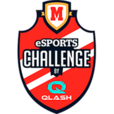
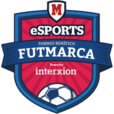
Modifica el diseño para el torneo FUTMARCA

diff --git a/index.html b/index.html
@@ -5,28 +5,28 @@
         <meta charset="utf-8" />
         <meta name="viewport" content="width=device-width, initial-scale=1, shrink-to-fit=no" />
 
-        <title>Torneo On-Line Fornite, eSPORTS CHALLENGE by QLASH</title>
+        <title>Torneo Benéfico Futmarca, eSPORTS CHALLENGE by QLASH</title>
 
-        <link rel="apple-touch-icon" sizes="57x57" href="https://uecluster.blob.core.windows.net/images/esports/images/apple-icon-57x57.png" />
-        <link rel="apple-touch-icon" sizes="60x60" href="https://uecluster.blob.core.windows.net/images/esports/images/apple-icon-60x60.png" />
-        <link rel="apple-touch-icon" sizes="72x72" href="https://uecluster.blob.core.windows.net/images/esports/images/apple-icon-72x72.png" />
-        <link rel="apple-touch-icon" sizes="76x76" href="https://uecluster.blob.core.windows.net/images/esports/images/apple-icon-76x76.png" />
-        <link rel="apple-touch-icon" sizes="114x114" href="https://uecluster.blob.core.windows.net/images/esports/images/apple-icon-114x114.png" />
-        <link rel="apple-touch-icon" sizes="120x120" href="https://uecluster.blob.core.windows.net/images/esports/images/apple-icon-120x120.png" />
-        <link rel="apple-touch-icon" sizes="144x144" href="https://uecluster.blob.core.windows.net/images/esports/images/apple-icon-144x144.png" />
-        <link rel="apple-touch-icon" sizes="152x152" href="https://uecluster.blob.core.windows.net/images/esports/images/apple-icon-152x152.png" />
-        <link rel="apple-touch-icon" sizes="180x180" href="https://uecluster.blob.core.windows.net/images/esports/images/apple-icon-180x180.png" />
-        <link rel="icon" type="image/png" sizes="192x192" href="https://uecluster.blob.core.windows.net/images/esports/images/android-icon-192x192.png" />
-        <link rel="icon" type="image/png" sizes="32x32" href="https://uecluster.blob.core.windows.net/images/esports/images/favicon-32x32.png" />
-        <link rel="icon" type="image/png" sizes="96x96" href="https://uecluster.blob.core.windows.net/images/esports/images/favicon-96x96.png" />
-        <link rel="icon" type="image/png" sizes="16x16" href="https://uecluster.blob.core.windows.net/images/esports/images/favicon-16x16.png" />
+        <link rel="apple-touch-icon" sizes="57x57" href="https://uecluster.blob.core.windows.net/images/futmarca/apple-icon-57x57.png" />
+        <link rel="apple-touch-icon" sizes="60x60" href="https://uecluster.blob.core.windows.net/images/futmarca/apple-icon-60x60.png" />
+        <link rel="apple-touch-icon" sizes="72x72" href="https://uecluster.blob.core.windows.net/images/futmarca/apple-icon-72x72.png" />
+        <link rel="apple-touch-icon" sizes="76x76" href="https://uecluster.blob.core.windows.net/images/futmarca/apple-icon-76x76.png" />
+        <link rel="apple-touch-icon" sizes="114x114" href="https://uecluster.blob.core.windows.net/images/futmarca/apple-icon-114x114.png" />
+        <link rel="apple-touch-icon" sizes="120x120" href="https://uecluster.blob.core.windows.net/images/futmarca/apple-icon-120x120.png" />
+        <link rel="apple-touch-icon" sizes="144x144" href="https://uecluster.blob.core.windows.net/images/futmarca/apple-icon-144x144.png" />
+        <link rel="apple-touch-icon" sizes="152x152" href="https://uecluster.blob.core.windows.net/images/futmarca/apple-icon-152x152.png" />
+        <link rel="apple-touch-icon" sizes="180x180" href="https://uecluster.blob.core.windows.net/images/futmarca/apple-icon-180x180.png" />
+        <link rel="icon" type="image/png" sizes="192x192" href="https://uecluster.blob.core.windows.net/images/futmarca/android-icon-192x192.png" />
+        <link rel="icon" type="image/png" sizes="32x32" href="https://uecluster.blob.core.windows.net/images/futmarca/favicon-32x32.png" />
+        <link rel="icon" type="image/png" sizes="96x96" href="https://uecluster.blob.core.windows.net/images/futmarca/favicon-96x96.png" />
+        <link rel="icon" type="image/png" sizes="16x16" href="https://uecluster.blob.core.windows.net/images/futmarca/favicon-16x16.png" />
         <link rel="manifest" href="manifest.json" />
         <meta name="msapplication-TileColor" content="#ffffff" />
-        <meta name="msapplication-TileImage" content="https://uecluster.blob.core.windows.net/images/esports/images/ms-icon-144x144.png" />
+        <meta name="msapplication-TileImage" content="https://uecluster.blob.core.windows.net/images/futmarca/ms-icon-144x144.png" />
         <meta name="theme-color" content="#ffffff" />
 
         <!-- Roboto CSS -->
-        <link href="https://fonts.googleapis.com/css2?family=Roboto:wght@300;700&display=swap" rel="stylesheet" />
+        <link href="https://fonts.googleapis.com/css2?family=Roboto:wght@300;700;900&display=swap" rel="stylesheet" />
 
         <!-- Bootstrap CSS -->
         <link rel="stylesheet" href="https://stackpath.bootstrapcdn.com/bootstrap/4.4.1/css/bootstrap.min.css" integrity="sha384-Vkoo8x4CGsO3+Hhxv8T/Q5PaXtkKtu6ug5TOeNV6gBiFeWPGFN9MuhOf23Q9Ifjh" crossorigin="anonymous" />
@@ -39,18 +39,33 @@
                 font-family: 'Roboto', 'helvetica neue', Arial, sans-serif;
                 color: #fff;
                 font-size: 17px;
-                background: repeating-linear-gradient(135deg, #0e1017, #0e1017 2px, #14151f 2px, #14151f 4px);
+                background: repeating-linear-gradient(135deg, #223154, #223154 2px, #2b3e6a 2px, #2b3e6a 4px);
             }
             header {
-                /* background: url(assets/images/bg-header.jpg) no-repeat top center; */
-                background: url(https://uecluster.blob.core.windows.net/images/esports/images/bg-header.jpg) no-repeat top center;
-                background-size: auto 100%;
+                background: #03090f;
             }
             header .container {
                 position: relative;
             }
-            header a {
+            header a.claim {
                 display: none;
+                font-size: 14px;
+            }
+            header .social {
+                display: none;
+            }
+
+            .white-line, .red-line {
+                height: 10px;
+            }
+            .red-line.big {
+                height: 60px;
+            }
+            .white-line{
+                background-color: #fff;
+            }
+            .red-line {
+                background-color: #c21c4a;
             }
 
             main {
@@ -86,8 +101,6 @@
             #thanks p,
             #ie11 p {
                 padding: 20px 0;
-                border-top: #a22825 4px solid;
-                border-bottom: #a22825 4px solid;
             }
             #form .alert {
                 display: none;
@@ -104,9 +117,14 @@
             button.loading > .loading {
                 display: block;
             }
+            h2, h3 {
+                color: #fddb20;
+                font-weight: 900;
+            }
             h2 {
                 text-align: center;
                 margin-bottom: 30px;
+                text-transform: uppercase;
             }
             .custom-select {
                 width: auto;
@@ -134,9 +152,22 @@
             .btn-success:hover {
                 background-image: linear-gradient(to bottom, #66ac60 0%, #55964f 60%);
             }
+            .social {
+                list-style: none;
+            }
+            .social li {
+                display: inline;
+                margin-right: 40px;
+            }
             footer {
                 background-color: #fff;
-                padding: 35px 0;
+                padding: 95px 0 35px;
+                position: relative;
+            }
+            footer .red-line {
+                position: absolute;
+                top: 5px;
+                width: 100%;
             }
             footer .container {
                 position: relative;
@@ -147,7 +178,7 @@
             .logo {
                 position: absolute;
                 top: -110px;
-                right: 15px;
+                right: calc(50% - 135px)
             }
             .logo img {
                 max-width: 90px;
@@ -160,25 +191,25 @@
                 text-decoration: underline;
             }
             @media (min-width: 960px) {
-                header a {
+                header a.claim {
                     position: absolute;
-                    bottom: 5.5rem;
+                    bottom: 2.5rem;
                     left: calc(50% - 48px);
                     display: block;
                     margin: 0 auto;
                     color: #fff;
                 }
-                header a:hover {
+                header a.claim:hover {
                     color: #eee;
                     text-decoration: none;
                 }
-                header a::before {
+                header a.claim::before {
                     animation: bounce 1s ease infinite;
                     bottom: -4rem;
                     color: #fff;
                     content: '╲╱';
-                    font-size: 2rem;
-                    height: 4rem;
+                    font-size: 1rem;
+                    height: 4.5rem;
                     left: 50%;
                     letter-spacing: -1px;
                     line-height: 4rem;
@@ -188,6 +219,18 @@
                     text-align: center;
                     width: 6rem;
                 }
+                header .social {
+                    position: absolute;
+                    top: 20px;
+                    right: 20px;
+                    display: block;
+                }
+                header .social li {
+                    margin-right: 20px;
+                }
+                header .social img {
+                    max-width: 30px;
+                }
             }
             @media (min-width: 576px) {
                 footer img {
@@ -196,7 +239,6 @@
                 .logo {
                     position: absolute;
                     top: -157px;
-                    right: 0;
                 }
                 .logo img {
                     max-width: 100%;
@@ -218,10 +260,18 @@
     <body onload="isIE11()">
         <header>
             <div class="container">
-                <img src="https://uecluster.blob.core.windows.net/images/esports/images/img-main.png" alt="Torneo On-line Fornite" class="img-fluid" />
-                <a href="#claim">REGÍSTRATE</a>
+                <img src="https://uecluster.blob.core.windows.net/images/futmarca/img-main.jpg" alt="Torneo Benéfico Futmarca" class="img-fluid" />
+                <a href="#claim" class="claim">REGÍSTRATE</a>
+                <ul class="social">
+                    <li><a href="https://www.instagram.com/marca/?hl=es" target="_blank" rel="noopener nofollow"><img src="https://uecluster.blob.core.windows.net/images/futmarca/instagram.png" alt="Instagram"></a></li>
+                    <li><a href="https://twitter.com/marca" target="_blank" rel="noopener nofollow"><img src="https://uecluster.blob.core.windows.net/images/futmarca/twitter.png" alt="Twitter"></a></li>
+                    <li><a href="https://es-es.facebook.com/MARCA/" target="_blank" rel="noopener nofollow"><img src="https://uecluster.blob.core.windows.net/images/futmarca/facebook.png" alt="Facebook"></a></li>
+                </ul>
             </div>
         </header>
+
+        <div class="white-line"></div>
+        <div class="red-line"></div>
 
         <main class="container">
             <section id="ie11">
@@ -235,7 +285,8 @@
             <section id="claim">
                 <div class="row">
                     <div class="col-md-10 offset-md-1 col-lg-8 offset-lg-2">
-                        <p class="text-center">Regístrate y participa en los clasificatorios los días 27, 28 y 29 de abril.<br /><strong>Es el momento de demostrar a todos quién es el mejor</strong>.</p>
+                        <p class="text-center">Participa en el  Torneo Benéfico FutMarca by Interxion de fútbol online y demuestra que eres el mejor en la competición los días 6 y 7 de junio.</p>
+                        <h2>¡Registrate AHORA y participa!</h2>
                     </div>
                 </div>
             </section>
@@ -445,9 +496,9 @@
                                 </div>
                             </div>
                             <div class="form-group row">
-                                <label for="fornite" class="col-sm-5 col-form-label">ID de Fornite</label>
+                                <label for="playstation" class="col-sm-5 col-form-label">ID de Playstation</label>
                                 <div class="col-sm-7">
-                                    <input type="text" class="form-control" id="fornite" name="fornite" required />
+                                    <input type="text" class="form-control" id="playstation" name="playstation" required />
                                 </div>
                             </div>
                             <div class="form-group row">
@@ -471,7 +522,7 @@
                                     <div class="form-check">
                                         <input type="checkbox" class="form-check-input" name="legal" id="legal" onclick="terms_changed()" required />
                                         <label class="form-check-label" for="legal">
-                                            <small>Al registrarte declaras aceptar las <a href="https://uecluster.blob.core.windows.net/images/esports/bases-fornite.pdf" target="_blank">bases legales</a> del torneo, los <a href="https://uecluster.blob.core.windows.net/images/esports/bases-fornite.pdf" target="_blank">términos y condiciones de uso</a>, así como la <a href="https://uecluster.blob.core.windows.net/images/esports/bases-fornite.pdf" target="_blank">política de privacidad</a> y la <a href="http://cookies.unidadeditorial.es/" target="_blank" rel="nofollow noopener external">política de cookies.</a></small>
+                                            <small>Al registrarte declaras aceptar las <a href="https://uecluster.blob.core.windows.net/images/futmarca/bases-futmarca.pdf" target="_blank">bases legales</a> del torneo, los <a href="https://uecluster.blob.core.windows.net/images/futmarca/bases-futmarca.pdf" target="_blank">términos y condiciones de uso</a>, así como la <a href="https://uecluster.blob.core.windows.net/images/futmarca/bases-futmarca.pdf" target="_blank">política de privacidad</a> y la <a href="http://cookies.unidadeditorial.es/" target="_blank" rel="nofollow noopener external">política de cookies.</a></small>
                                         </label>
                                     </div>
                                 </div>
@@ -518,13 +569,29 @@
                     </div>
                 </div>
             </section>
+            <section id="share">
+                <div class="row">
+                    <div class="col-sm-6">
+                        <ul class="social">
+                            <li><a href="https://www.instagram.com/marca/?hl=es" target="_blank" rel="noopener nofollow"><img src="https://uecluster.blob.core.windows.net/images/futmarca/instagram.png" alt="Instagram"></a></li>
+                            <li><a href="https://twitter.com/marca" target="_blank" rel="noopener nofollow"><img src="https://uecluster.blob.core.windows.net/images/futmarca/twitter.png" alt="Twitter"></a></li>
+                            <li><a href="https://es-es.facebook.com/MARCA/" target="_blank" rel="noopener nofollow"><img src="https://uecluster.blob.core.windows.net/images/futmarca/facebook.png" alt="Facebook"></a></li>
+                        </ul>
+                    </div>
+                    <div class="col-sm-6 text-right">
+                        <h3>#FUTMARCABENEFICO</h3>
+                    </div>
+                </div>
+            </section>
         </main>
 
         <footer>
+            <div class="red-line big"></div>
             <div class="container">
-                <a href="https://marca.com" target="_blank" rel="noopener"><img src="https://uecluster.blob.core.windows.net/images/esports/images/marca.png" alt="Marca" /></a>
-                <a href="https://uecluster.blob.core.windows.net/images/esports/bases-fornite.pdf" target="_blank" rel="noopener" class="legal">Bases legales</a>
-                <a href="https://www.marca.com/esports.html" target="_blank" class="logo"><img src="https://uecluster.blob.core.windows.net/images/esports/images/logo.png" alt="eSPORTS Challenge" /></a>
+                <a href="https://www.interxion.com/" target="_blank" rel="noopener nofollow"><img src="https://uecluster.blob.core.windows.net/images/futmarca/interxion.png" alt="Interxion" /></a>
+                <!-- <a href="https://uecluster.blob.core.windows.net/images/futmarca/bases-futmarca.pdf" target="_blank" rel="noopener" class="legal">Bases legales</a> -->
+                <a href="https://www.marca.com/esports.html" target="_blank" class="logo"><img src="https://uecluster.blob.core.windows.net/images/futmarca/logo.png" alt="eSPORTS Challenge" /></a>
+                <a href="https://marca.com" class="float-right" target="_blank" rel="noopener"><img src="https://uecluster.blob.core.windows.net/images/futmarca/marca.png" alt="Marca" /></a>
             </div>
         </footer>
         <script src="https://ajax.googleapis.com/ajax/libs/jquery/3.4.1/jquery.min.js"></script> 
